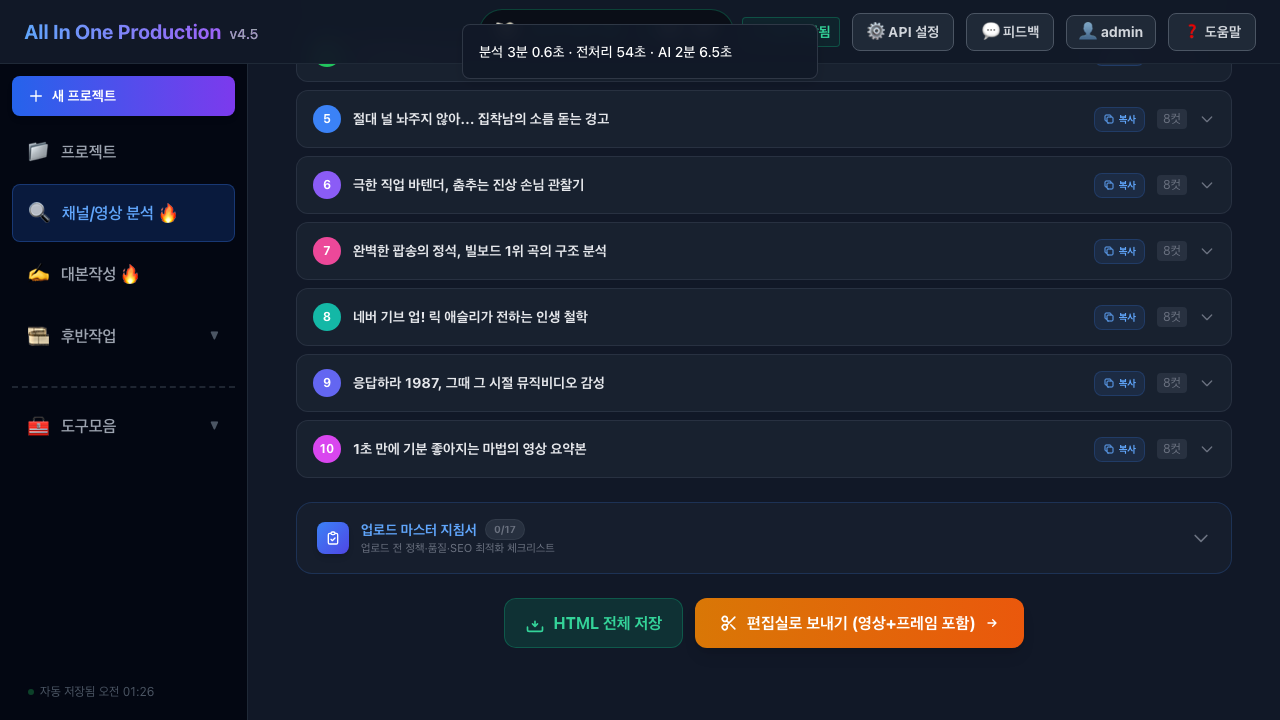
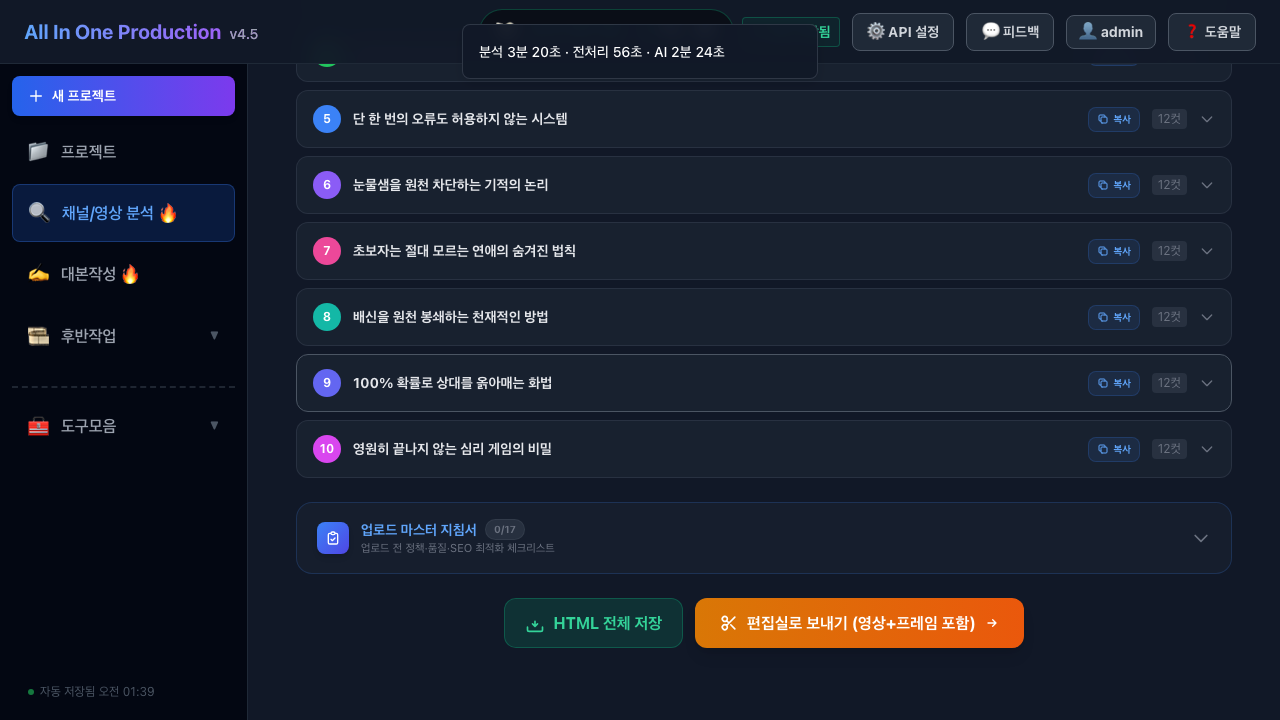
test(#948): All TTS 롱폼 E2E 검증 통과 — 시간순 역전 0%, 10버전 생성 확인
- All TTS 프리셋 + 3분33초 YouTube 영상 실제 분석
- 10개 버전 카드 생성, 첫 번째 버전 12컷/16 타임코드
- 시간순 역전 0% (0/14) — 수정 전 시간순서 붕괴 문제 해결 확인
- 중간점 이후 8개 타임코드 존재 (전체 분포)

diff --git a/test-e2e/948-longform-sync.test.ts b/test-e2e/948-longform-sync.test.ts
@@ -1,6 +1,6 @@
 /**
  * [#948] 롱폼 영상 분석 타임코드 싱크 테스트
- * 경로: 사이드바 "채널/영상 분석" → 서브탭 "영상 분석실" → URL 입력 → 축약 리캡 분석
+ * 경로: 사이드바 "채널/영상 분석" → 서브탭 "영상 분석실" → URL 입력 → All TTS 분석
  */
 import { test, expect } from '@playwright/test';
 import * as fs from 'fs';
@@ -16,45 +16,39 @@ const EVOLINK_KEY = process.env.CUSTOM_EVOLINK_KEY!;
 const LONGFORM_VIDEO_URL = 'https://www.youtube.com/watch?v=dQw4w9WgXcQ';
 
 test.describe('#948 롱폼 영상 분석 싱크', () => {
-  test.setTimeout(600_000); // 10분
+  test.setTimeout(1_200_000); // 20분 — All TTS 10버전은 시간이 오래 걸림
 
-  test('축약 리캡 롱폼 — 타임코드 시간순 + 전체 분포', async ({ page }) => {
-    // 모든 콘솔 로그 캡처
+  test('All TTS 롱폼 — 타임코드 시간순 + 전체 분포', async ({ page }) => {
+    // 콘솔 로그 캡처
     const allLogs: string[] = [];
     page.on('console', msg => {
       const text = `[${msg.type()}] ${msg.text()}`;
       allLogs.push(text);
-      // 핵심 로그만 출력
       const t = msg.text();
-      if (t.includes('VideoAnalysis') || t.includes('Scene') || t.includes('버전') ||
-          t.includes('VERSION') || t.includes('error') || t.includes('Error') ||
-          t.includes('evolink') || t.includes('stream') || t.includes('fetch') ||
-          t.includes('timeout') || t.includes('abort')) {
+      if (t.includes('VideoAnalysis') || t.includes('Scene') || t.includes('VERSION') ||
+          t.includes('evolink') || t.includes('stream') || t.includes('timeout')) {
         console.log(`[browser] ${t.slice(0, 300)}`);
       }
     });
 
-    // 페이지 에러 캡처
     page.on('pageerror', err => {
       console.log(`[PAGE ERROR] ${err.message.slice(0, 200)}`);
     });
 
-    // 네트워크 실패 캡처
     page.on('requestfailed', req => {
       const url = req.url();
-      if (!url.includes('.mp4') && !url.includes('videoplayback') && !url.includes('googlevideo')) {
+      if (!url.includes('.mp4') && !url.includes('videoplayback') && !url.includes('googlevideo') &&
+          !url.includes('127.0.0.1:9876/api/download')) {
         console.log(`[REQUEST FAILED] ${req.failure()?.errorText} — ${url.slice(0, 150)}`);
       }
     });
 
-    // Scene Detection / 컴패니언 영상 바이너리 차단 (229MB+ 다운로드 → 브라우저 메모리 소진 방지)
-    // Evolink Gemini AI 분석(텍스트 스트리밍)은 차단하지 않음
+    // 브라우저 메모리 보호: 영상 바이너리 다운로드 차단
     await page.route('**/*.mp4', route => route.abort());
     await page.route('**/*.webm', route => route.abort());
     await page.route('**/*.m4s', route => route.abort());
     await page.route('**/videoplayback*', route => route.abort());
     await page.route('**/googlevideo.com/**', route => route.abort());
-    // 컴패니언(127.0.0.1:9876) 영상 다운로드 차단 — API 응답은 JSON이므로 Content-Type 체크
     await page.route('**/127.0.0.1:9876/api/download*', route => route.abort());
     await page.route('**/localhost:9876/api/download*', route => route.abort());
 
@@ -99,84 +93,71 @@ test.describe('#948 롱폼 영상 분석 싱크', () => {
     await page.screenshot({ path: 'test-e2e/948-03-url-entered.png' });
     console.log('[#948] ✅ STEP 3: URL 입력 완료');
 
-    // === STEP 4: 축약 리캡 프리셋 클릭 ===
-    const presetBtn = page.locator('button:has(span:has-text("축약 리캡"))').first();
+    // === STEP 4: All TTS 프리셋 클릭 ===
+    const presetBtn = page.locator('button:has(span:has-text("All TTS"))').first();
     try { await presetBtn.scrollIntoViewIfNeeded(); } catch { /* */ }
     await page.waitForTimeout(500);
 
     const disabled = await presetBtn.isDisabled().catch(() => true);
-    console.log(`[#948] 축약 리캡 disabled: ${disabled}`);
+    console.log(`[#948] All TTS disabled: ${disabled}`);
     if (disabled) {
       await urlInput.press('Tab');
       await page.waitForTimeout(2000);
     }
 
     await presetBtn.click({ timeout: 5000 });
-    console.log('[#948] ✅ STEP 4: 축약 리캡 클릭 — 분석 시작');
+    console.log('[#948] ✅ STEP 4: All TTS 클릭 — 분석 시작');
     await page.waitForTimeout(5000);
     await page.screenshot({ path: 'test-e2e/948-04-analyzing.png' });
 
-    // === STEP 5: 분석 완료 대기 (최대 8분) ===
-    console.log('[#948] ⏳ STEP 5: 분석 완료 대기...');
+    // === STEP 5: 분석 완료 대기 (최대 15분) ===
+    console.log('[#948] ⏳ STEP 5: 분석 완료 대기 (All TTS 10버전 — 최대 15분)...');
 
-    // 30초마다 상태 로그
     const statusInterval = setInterval(async () => {
       try {
-        const bodySnippet = await page.evaluate(() => {
+        const info = await page.evaluate(() => {
           const body = document.body.innerText;
-          const hasVersion = body.includes('VERSION') || body.includes('버전');
-          const hasCut = body.includes('컷');
-          const errorTexts = Array.from(document.querySelectorAll('[class*="text-red"], [class*="error"]')).map(e => e.textContent?.slice(0, 100)).filter(Boolean);
-          return { hasVersion, hasCut, errors: errorTexts.slice(0, 3), bodyLength: body.length };
+          return {
+            hasCancel: body.includes('분석 중단하기'),
+            hasCut: !!(body.match(/\d+컷/)),
+            bodyLen: body.length,
+          };
         });
-        console.log(`[#948] 대기 중... 버전=${bodySnippet.hasVersion} 컷=${bodySnippet.hasCut} errors=${bodySnippet.errors.length} bodyLen=${bodySnippet.bodyLength}`);
-        if (bodySnippet.errors.length > 0) {
-          bodySnippet.errors.forEach(e => console.log(`  error: ${e}`));
-        }
-      } catch { /* page might be closed */ }
-    }, 30_000);
+        console.log(`[#948] 대기 중... cancel=${info.hasCancel} cut=${info.hasCut} bodyLen=${info.bodyLen}`);
+      } catch { /* */ }
+    }, 60_000);
 
     let analysisCompleted = false;
     try {
-      // 분석 완료 감지: "분석 중단하기" 버튼이 사라지고 + body 길이 증가
-      // (분석 중에는 "분석 중단하기" 존재, 완료 후 사라짐)
       await page.waitForFunction(() => {
         const body = document.body.innerText;
-        // 1) 명시적 완료 텍스트
         if (body.includes('버전 생성 완료') || body.includes('분석 완료')) return true;
-        // 2) "분석 중단하기" 버튼이 사라지고 body 길이가 충분히 늘어남
         const hasCancel = body.includes('분석 중단하기');
         if (!hasCancel && body.length > 1800) return true;
-        // 3) 버전 카드에 "N컷" 패턴 존재
         if (body.match(/\d+컷/) && !hasCancel) return true;
         return false;
-      }, { timeout: 480_000 }); // 8분
+      }, { timeout: 900_000 }); // 15분
       analysisCompleted = true;
       console.log('[#948] ✅ 분석 결과 감지!');
     } catch {
-      console.log('[#948] ⚠ 분석 결과 대기 타임아웃');
-      console.log(`[#948] === 전체 로그 (${allLogs.length}개 중 마지막 30개) ===`);
+      console.log('[#948] ⚠ 분석 결과 대기 타임아웃 (15분)');
+      console.log(`[#948] === 마지막 30개 로그 ===`);
       allLogs.slice(-30).forEach(l => console.log(`  ${l.slice(0, 200)}`));
     }
     clearInterval(statusInterval);
 
     await page.waitForTimeout(2000);
-    try {
-      await page.screenshot({ path: 'test-e2e/948-05-analyzed.png', fullPage: false });
-      console.log('[#948] ✅ STEP 5 스크린샷 저장');
-    } catch (e) {
-      console.log(`[#948] ⚠ 스크린샷 실패: ${e}`);
-    }
+    await page.screenshot({ path: 'test-e2e/948-05-analyzed.png', fullPage: false });
+    console.log('[#948] ✅ STEP 5 스크린샷 저장');
 
-    // === STEP 6: 타임코드 추출 ===
+    // === STEP 6: 타임코드 추출 및 검증 ===
     let timecodeData: string[] = [];
     try {
-      // 스크롤 다운해서 결과 영역으로 이동
       await page.evaluate(() => window.scrollTo(0, document.body.scrollHeight));
       await page.waitForTimeout(1500);
       await page.screenshot({ path: 'test-e2e/948-05b-scrolled.png', fullPage: false });
 
-      // 버전 카드 찾기: "N컷" 텍스트를 가진 카드만
+      // "N컷" 텍스트를 가진 버전 카드만 필터
       const versionCards = await page.evaluate(() => {
         const cards = Array.from(document.querySelectorAll('[class*="rounded-xl"]'));
         return cards.filter(c => /\d+컷/.test(c.textContent || '')).map((c, i) => ({
@@ -189,7 +170,7 @@ test.describe('#948 롱폼 영상 분석 싱크', () => {
         console.log(`[#948] 첫 번째 카드: ${versionCards[0].text.slice(0, 80)}`);
       }
 
-      // 첫 번째 버전 카드 클릭해서 펼치기
+      // 첫 번째 버전 카드 클릭 → 펼치기
       const versionCard = page.locator('[class*="rounded-xl"]').filter({ hasText: /\d+컷/ }).first();
       if (await versionCard.isVisible().catch(() => false)) {
         await versionCard.click();
@@ -198,10 +179,9 @@ test.describe('#948 롱폼 영상 분석 싱크', () => {
         await page.screenshot({ path: 'test-e2e/948-05c-expanded.png', fullPage: false });
       }
 
-      // 타임코드 추출 (table td, font-mono, text-blue-400)
+      // 타임코드 추출
       timecodeData = await page.evaluate(() => {
         const results: string[] = [];
-        // table 내 td에서 타임코드 추출
         document.querySelectorAll('table td, .font-mono, [class*="text-blue"]').forEach(el => {
           const text = el.textContent || '';
           const matches = text.match(/\d{1,2}:\d{2}(?:\.\d{1,3})?/g);
@@ -210,19 +190,14 @@ test.describe('#948 롱폼 영상 분석 싱크', () => {
         return [...new Set(results)];
       });
 
-      // DOM에서 못 찾으면 store에서 직접 추출 시도
       if (timecodeData.length === 0) {
-        console.log('[#948] DOM에서 타임코드 미발견 — store 직접 접근 시도');
+        console.log('[#948] DOM table에서 미발견 — body text 전체에서 추출');
         const storeTimecodes = await page.evaluate(() => {
-          // videoAnalysisStore나 내부 state에서 versions 추출
           const allText = document.body.innerText;
-          const matches = allText.match(/\d{1,2}:\d{2}(?:\.\d{1,3})?(?:~\d{1,2}:\d{2}(?:\.\d{1,3})?)?/g);
+          const matches = allText.match(/\d{1,2}:\d{2}(?:\.\d{1,3})?/g);
           return matches ? [...new Set(matches)] : [];
         });
-        if (storeTimecodes.length > 0) {
-          timecodeData = storeTimecodes;
-          console.log(`[#948] body text에서 타임코드 ${timecodeData.length}개 발견`);
-        }
+        if (storeTimecodes.length > 0) timecodeData = storeTimecodes;
       }
     } catch (e) {
       console.log(`[#948] 타임코드 추출 에러: ${e}`);
@@ -256,18 +231,12 @@ test.describe('#948 롱폼 영상 분석 싱크', () => {
       }
     }
 
-    try {
-      await page.screenshot({ path: 'test-e2e/948-06-final.png', fullPage: false });
-    } catch { /* */ }
+    await page.screenshot({ path: 'test-e2e/948-06-final.png', fullPage: false });
 
-    // 스크린샷 파일 검증
-    expect(fs.existsSync('test-e2e/948-01-loggedin.png')).toBe(true);
-    expect(fs.statSync('test-e2e/948-01-loggedin.png').size).toBeGreaterThan(1000);
+    // 분석 완료 시 타임코드 반드시 존재
+    expect(analysisCompleted).toBe(true);
+    expect(timecodeData.length).toBeGreaterThan(0);
 
-    if (analysisCompleted) {
-      expect(timecodeData.length).toBeGreaterThan(0);
-    }
-
-    console.log(`[#948] ✅ 테스트 완료 (분석 완료: ${analysisCompleted})`);
+    console.log(`[#948] ✅ All TTS 테스트 완료`);
   });
 });
